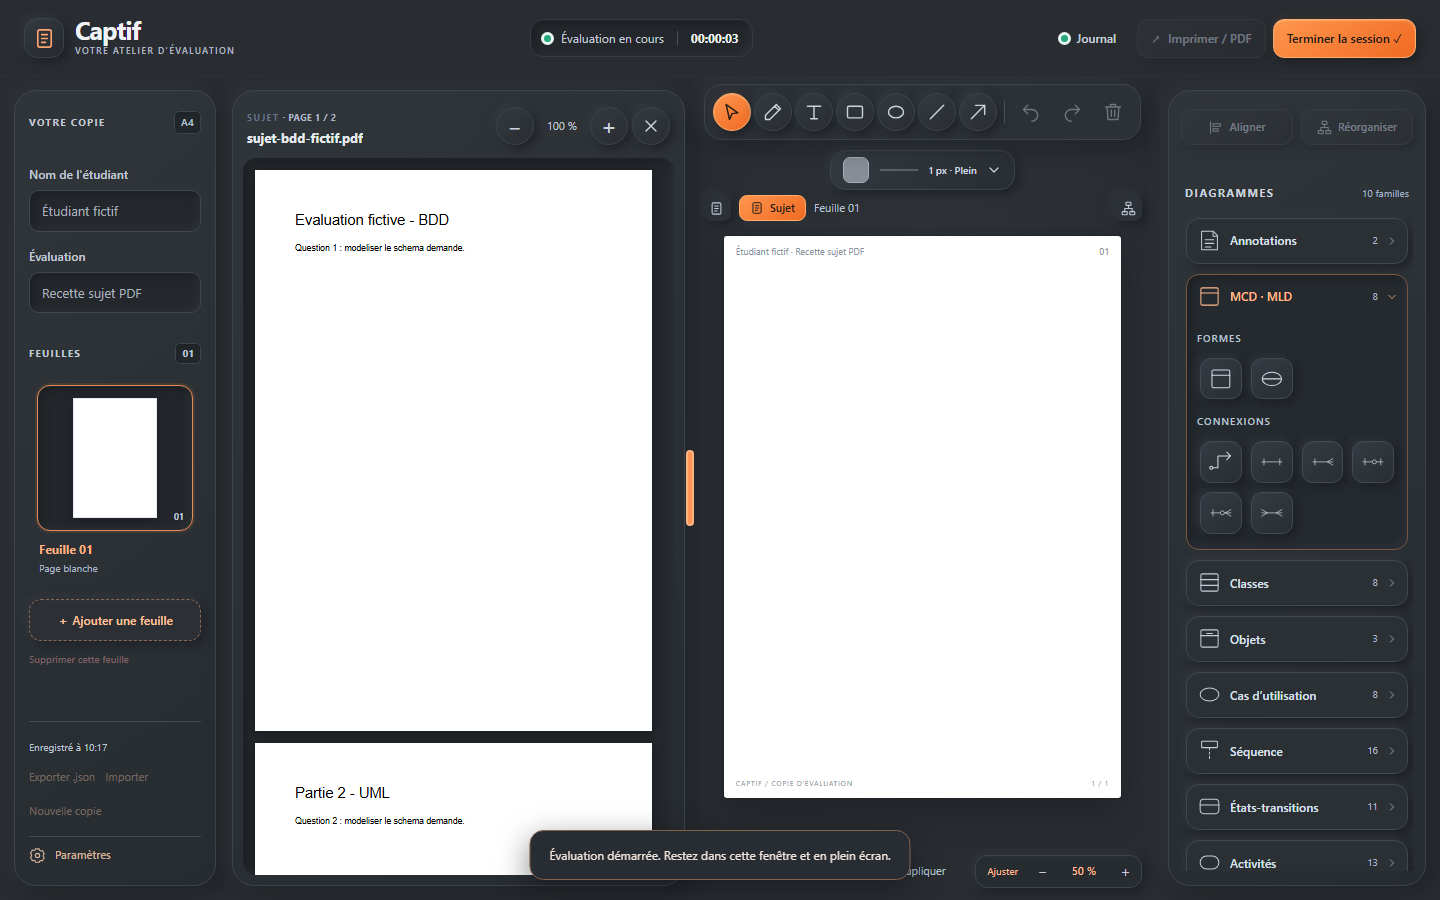
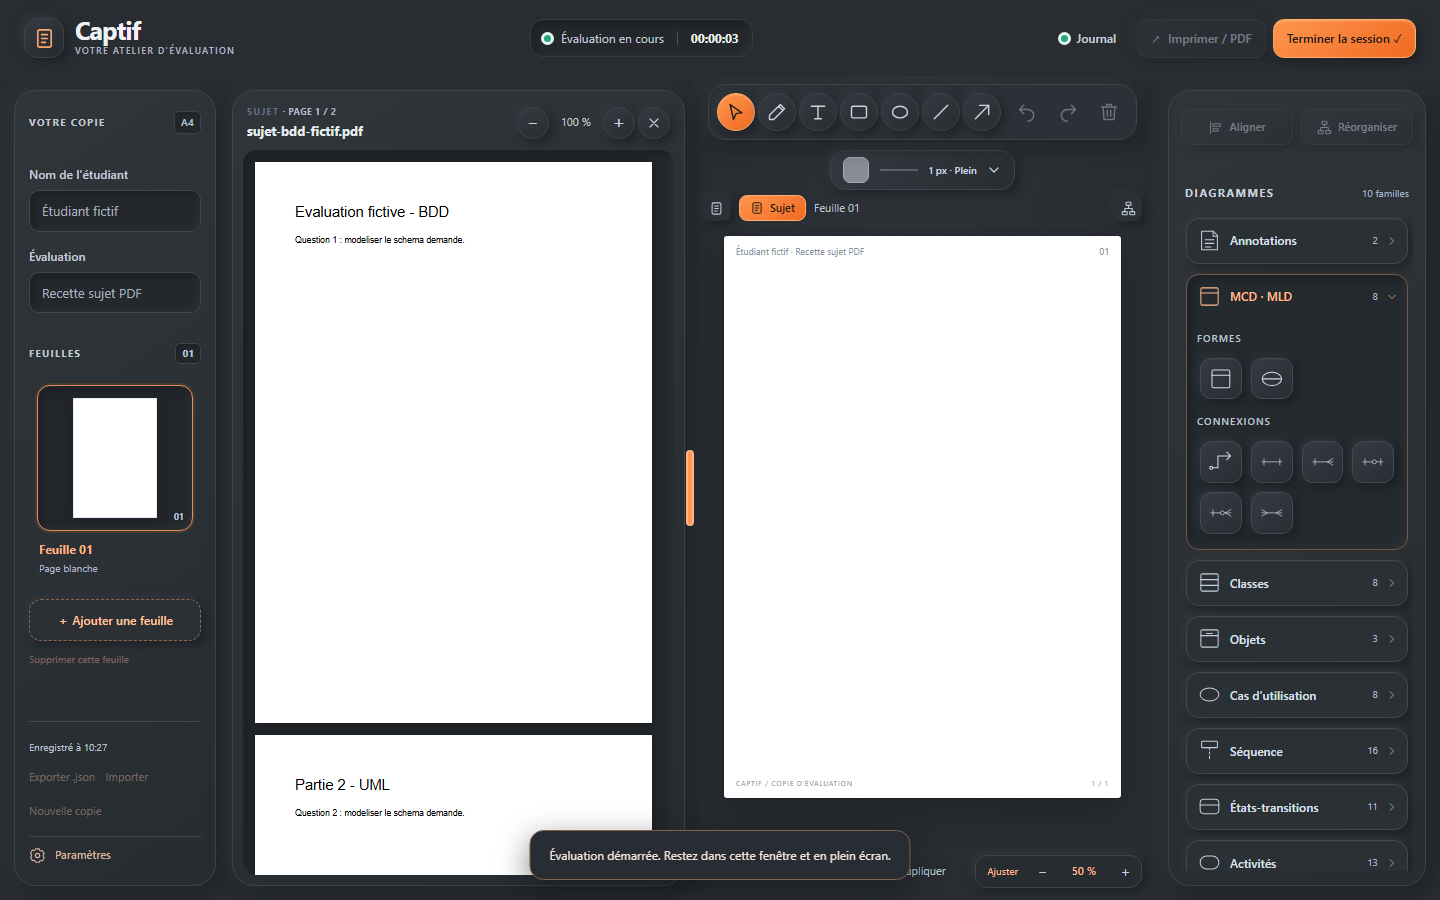
fix(sujet): en-tête du panneau et barre d'outils dans les largeurs étroites
Les commandes de zoom pouvaient rétrécir et déborder sur la feuille
quand le panneau était étroit : elles gardent leur taille et passent
sous le titre, alignées à droite. Boutons du panneau plus compacts.

Quand le panneau élargi réduit la feuille sous 680 px, la barre
d'outils passe sur deux lignes au lieu de glisser sous le panneau
(classe posée par ResizeObserver : une requête de conteneur aurait
cassé le panneau de trait en position fixe).

diff --git a/src/subject.css b/src/subject.css
@@ -8,11 +8,19 @@
   #app .subject-open .subject-panel { display:flex; }
   #app .desk { grid-column:3; }
   #app .right-sidebar { grid-column:4; }
+  #app .desk-compact .toolbar { flex-wrap:wrap; }
+  #app .desk-compact .tool-group { flex-wrap:wrap; justify-content:center; }
+  #app .desk-compact .toolbar-divider { display:none; }
   .subject-panel { position:relative; flex-direction:column; min-width:0; min-height:0; margin:14px 0 14px 8px; padding:14px 10px 10px; gap:10px; color:#e6ebf1; background:linear-gradient(145deg,#30353a,#272c31); border:1px solid #3d444c; border-radius:22px; box-shadow:var(--neo-panel); }
-  .subject-panel-heading { display:flex; align-items:center; justify-content:space-between; gap:8px; padding:0 4px; }
-  .subject-panel-heading > div { min-width:0; }
+  /* Titre et commandes sur une ligne ; si le panneau est étroit, les commandes passent dessous,
+     alignées à droite, sans jamais rétrécir ni déborder sur la feuille. */
+  .subject-panel-heading { display:flex; flex-wrap:wrap; align-items:center; justify-content:space-between; gap:6px 8px; padding:0 4px; }
+  .subject-panel-heading > div:first-child { flex:1 1 140px; min-width:0; }
+  .subject-panel-heading .eyebrow { display:block; overflow:hidden; text-overflow:ellipsis; white-space:nowrap; }
   .subject-panel-heading h2 { margin:2px 0 0; overflow:hidden; font-size:13px; font-weight:650; text-overflow:ellipsis; white-space:nowrap; }
-  .subject-zoom { display:flex; align-items:center; gap:4px; }
+  .subject-zoom { flex:none; display:flex; align-items:center; gap:3px; margin-left:auto; }
+  .subject-zoom .tool { width:32px; height:32px; font-size:17px; }
+  .subject-zoom .tool > svg { width:16px; height:16px; }
   .subject-zoom-level { min-width:48px; min-height:28px; padding:0 4px; color:#c1c9d3; font-size:11px; text-align:center; font-variant-numeric:tabular-nums; background:none; border:0; border-radius:8px; }
   button.subject-zoom-level:hover { color:#ffbd94; background:#22262b; }
   .subject-page-indicator { color:#aeb7c3; letter-spacing:.4px; font-variant-numeric:tabular-nums; }

diff --git a/src/main.js b/src/main.js
@@ -887,6 +887,8 @@ function fitPaper() {
 document.querySelector('#zoom-label').onclick = () => {fitZoom=false;zoom=100;renderPaper();};
 document.querySelector('#zoom-fit').onclick = () => { fitZoom = true; fitPaper(); };
 new ResizeObserver(()=>{fitPaper();floatingFrame.schedule();}).observe(document.querySelector('.paper-scroll'));
+// Feuille rétrécie par le panneau du sujet : la barre d'outils passe sur deux lignes au lieu de déborder.
+new ResizeObserver(([entry])=>document.querySelector('.desk').classList.toggle('desk-compact',entry.contentRect.width<680)).observe(document.querySelector('.desk'));
 
 let pointerBounds=null;
 window.addEventListener('scroll',()=>{pointerBounds=null;},true);

diff --git a/docs/TEACHER_SUBJECT.md b/docs/TEACHER_SUBJECT.md
@@ -12,7 +12,7 @@ L'enseignant fournit les consignes de l'évaluation sous forme d'un PDF, lisible
 2. Un écran « Accès réservé » demande le mot de passe. Le reste de la page est `inert`. Le déverrouillage reste **en mémoire seulement** : un rechargement ou « Verrouiller » redemande le mot de passe. Rien n'est retenu sur le poste de l'étudiant.
 3. La page enseignant présente le sujet actuel (nom, pages, taille, date de dépôt, début d'empreinte), « Déposer un sujet PDF », « Retirer le sujet » et un aperçu. Remplacer ou retirer un sujet existant demande une confirmation.
 4. En préparation, l'étudiant voit seulement « Sujet déposé : nom.pdf · N pages. Il s'affichera au démarrage de l'évaluation. » Le contenu n'est pas lisible avant le démarrage.
-5. Au démarrage, le panneau « Sujet » s'ouvre à côté de la feuille. À 100 %, chaque page occupe la largeur du panneau, sans ascenseur horizontal. L'en-tête indique la page courante (« PAGE 1 / 2 »). Zoom − / + ou Ctrl + molette ; un clic sur le pourcentage revient à 100 %, en gardant la position de lecture. Une poignée sur le bord droit règle la largeur du panneau (glisser, flèches gauche/droite, Maj pour aller plus vite, Début/Fin, double-clic pour la largeur par défaut). La feuille garde au moins 360 px ; la largeur choisie est mémorisée sur ce navigateur. Le panneau se replie. Il reste consultable après la fin de la session. Aucune commande de la copie ne remplace ni ne retire le sujet.
+5. Au démarrage, le panneau « Sujet » s'ouvre à côté de la feuille. À 100 %, chaque page occupe la largeur du panneau, sans ascenseur horizontal. L'en-tête indique la page courante (« PAGE 1 / 2 »). Zoom − / + ou Ctrl + molette ; un clic sur le pourcentage revient à 100 %, en gardant la position de lecture. Une poignée sur le bord droit règle la largeur du panneau (glisser, flèches gauche/droite, Maj pour aller plus vite, Début/Fin, double-clic pour la largeur par défaut). La feuille garde au moins 360 px ; la largeur choisie est mémorisée sur ce navigateur. Le panneau se replie. Dans un panneau étroit, les commandes de zoom passent sous le titre au lieu de déborder ; dans une feuille étroite (moins de 680 px), la barre d'outils passe sur deux lignes. Il reste consultable après la fin de la session. Aucune commande de la copie ne remplace ni ne retire le sujet.
 6. Au démarrage, la copie enregistre une référence au sujet : nom, empreinte SHA-256 et nombre de pages. Le bilan imprimé l'affiche. Le PDF n'est ni exporté dans le JSON ni imprimé.
 
 ## Choix techniques
@@ -45,6 +45,6 @@ La page enseignant est une porte dissuasive, pas une authentification : le site 
 
 Le 6 novembre 2026, sur la version compilée servie par `npm run preview` (origine locale distincte, Chromium sans interface, copie et PDF fictifs, mot de passe de test substitué dans la réponse) : porte affichée et page inerte, blocage d'une minute après un mauvais mot de passe, accès ouvert avec le bon, faux PDF refusé, dépôt d'un PDF de 3 pages puis remplacement par un PDF de 2 pages après confirmation, « Verrouiller » redemande le mot de passe, mention seule en préparation, panneau ouvert au démarrage, aucune absence après clic, défilement et zoom dans le sujet, référence enregistrée dans la copie, repli du panneau, sujet visible après la fin, référence dans le bilan imprimé, aucune requête hors de l'origine, aucune erreur console. Captures : `docs/screenshots/teacher-subject-page.png` et `docs/screenshots/teacher-subject-panel.png`.
 
-Le même jour, ergonomie du panneau : pas d'ascenseur horizontal à 100 % au chargement ni après redimensionnement, indicateur de page qui suit le défilement, zoom 125 % avec bord gauche accessible, retour à 100 % par le pourcentage, poignée glissée (+80 px), bornée par les 360 px de la feuille, flèche gauche (−20 px), double-clic (largeur par défaut), largeur mémorisée. Capture : `docs/screenshots/teacher-subject-panel-ux.png`.
+Le même jour, ergonomie du panneau : pas d'ascenseur horizontal à 100 % au chargement ni après redimensionnement, indicateur de page qui suit le défilement, zoom 125 % avec bord gauche accessible, retour à 100 % par le pourcentage, poignée glissée (+80 px), bornée par les 360 px de la feuille, flèche gauche (−20 px), double-clic (largeur par défaut), largeur mémorisée. Capture : `docs/screenshots/teacher-subject-panel-ux.png`. En-tête mesuré sans débordement pour un panneau de 260, 330 et 560 px, avec des fenêtres de 1440, 900 et 700 px ; barre d'outils sur deux lignes quand le panneau est au maximum. Captures : `teacher-subject-panel-narrow.png`, `teacher-subject-panel-wide.png`.
 
 Non vérifié : le vrai mot de passe (inconnu de la recette), Firefox et Safari, un sujet de grande taille, l'aperçu d'impression natif, le geste de pincement sur pavé tactile et la lecture du sujet par un lecteur d'écran (le rendu en canvas n'expose pas le texte du PDF).
